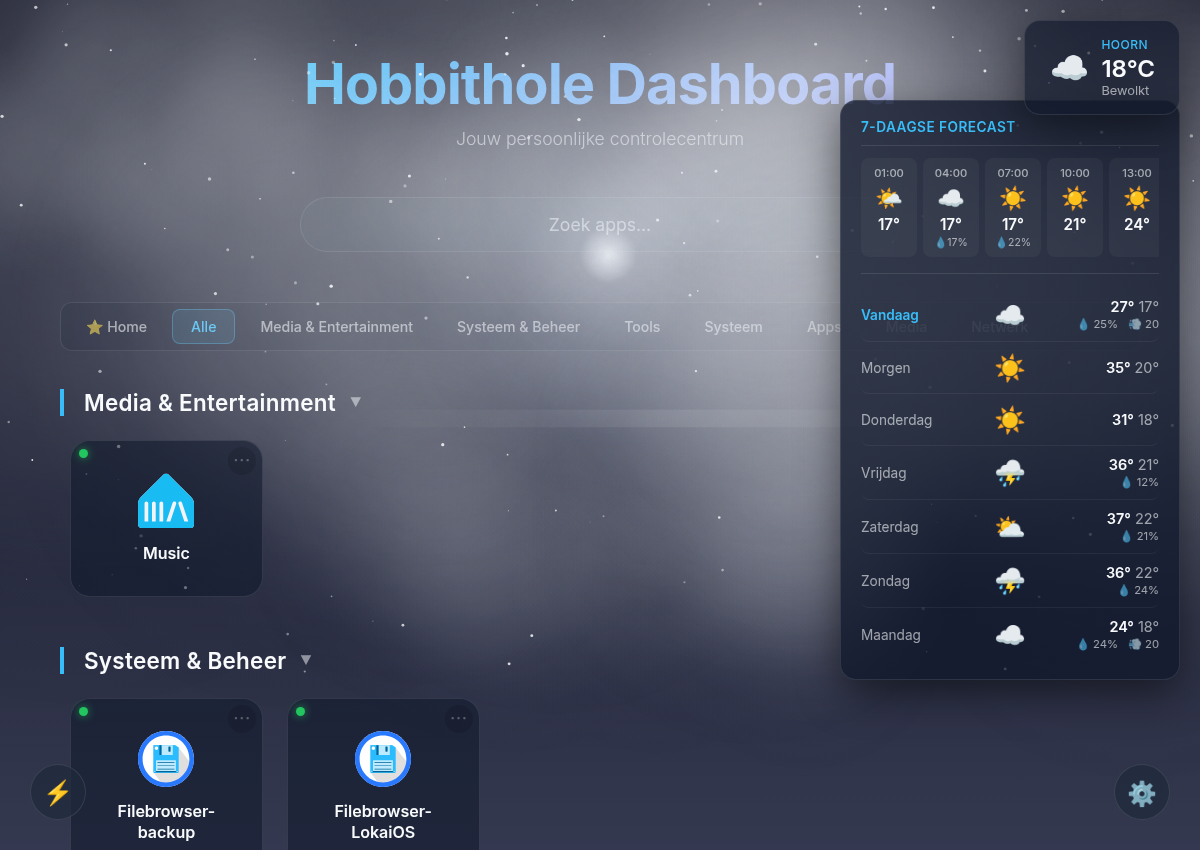
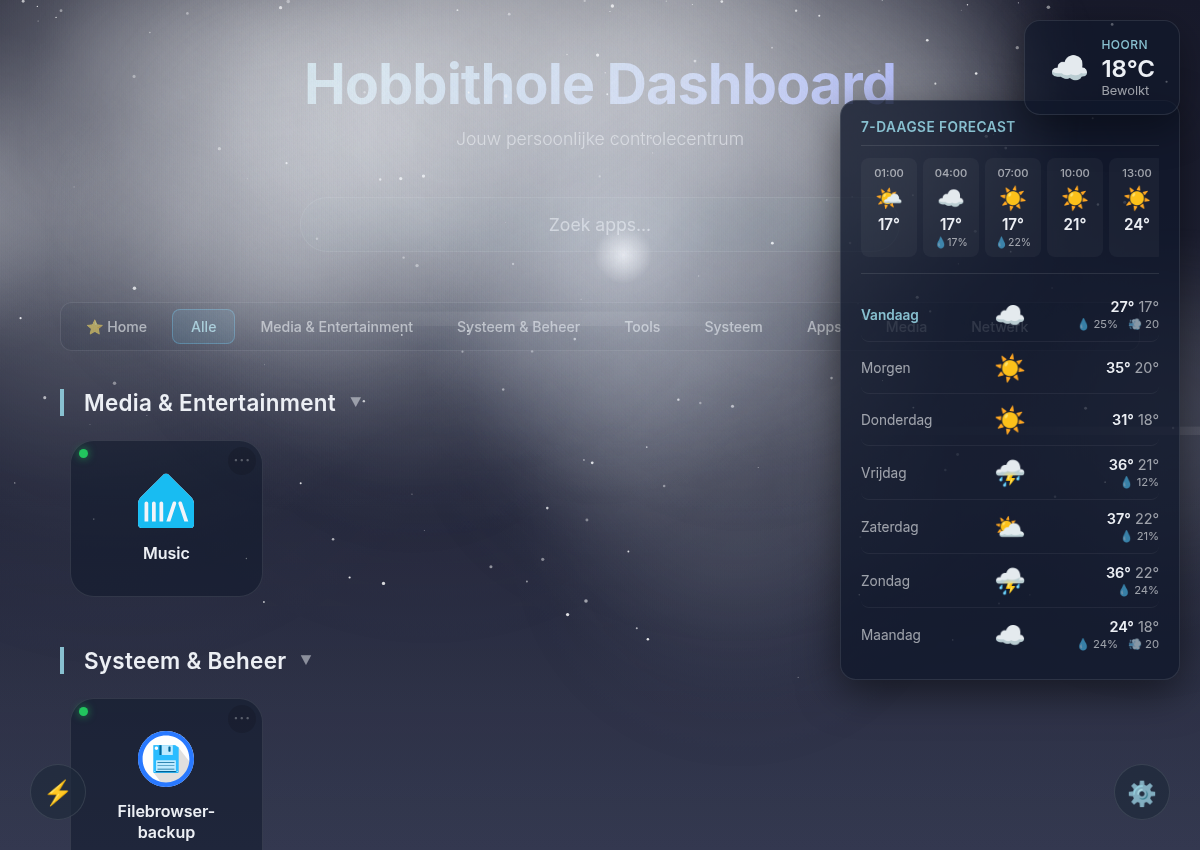
docs: add v1.9.5 showcase media and update README

diff --git a/index.html b/index.html
@@ -6363,7 +6363,7 @@ closeBtn.onclick = () => {
 
 // v1.8.2: changelog modal — "What's New" with auto-detected NEW badge.
 // CHANGELOG.md is baked into the dashboard image (COPY in Dockerfile) at /CHANGELOG.md
-const APP_VERSION = '1.9.6-dev';
+const APP_VERSION = '1.9.7-dev';
 
 // ===== RELEASE ANNOUNCEMENTS (v1.8.5) =====
 // First-run pop-up shown ONCE per user, per announcement id. Use this for big feature

diff --git a/CHANGELOG.md b/CHANGELOG.md
@@ -1,6 +1,10 @@
 # Hobbithole Cinema Dashboard - Changelog
 
-## [v1.9.6-dev] - 2026-06-22
+## [v1.9.7-dev] - 2026-06-22
+### In uitvoering (In Progress)
+- Nieuwe features voor de volgende release.
+
+## [v1.9.6] - 2026-06-22
 ### In uitvoering (In Progress)
 - Nieuwe features voor de volgende release.
 

diff --git a/README.md b/README.md
@@ -4,9 +4,9 @@
 
 A blazing fast, responsive, self‑configuring dashboard for your homelab. Smart Docker auto‑detection, a cinematic weather widget, and **cross‑device settings sync** via a tiny config API.
 
-> 🆕 **v1.9.4** — **🖥️ VM & Service Control**: Brand new generic control widget supporting Proxmox VE API, Systemd services, and Custom SSH/local commands. + **🌍 Global Language Switcher**: Floating button in the top-left to instantly switch languages.
+> 🆕 **v1.9.5** — **📹 High-Quality Media Showcase**: Added a high-quality animated dashboard showcase GIF and detailed screenshots (Home, Weather, Themes) generated via the new automated Playwright & FFmpeg pipeline in Webtop.
 >
-> Previously in **v1.9.3**: Universal USB Eject & version auto-sync. **v1.9.2**: USB Eject Widget & p95 Resource Metrics.
+> Previously in **v1.9.4**: VM & Service Control and floating language switcher. **v1.9.3**: Universal USB Eject & version auto-sync.
 
 ## ⏏️ USB Eject Configuration
 